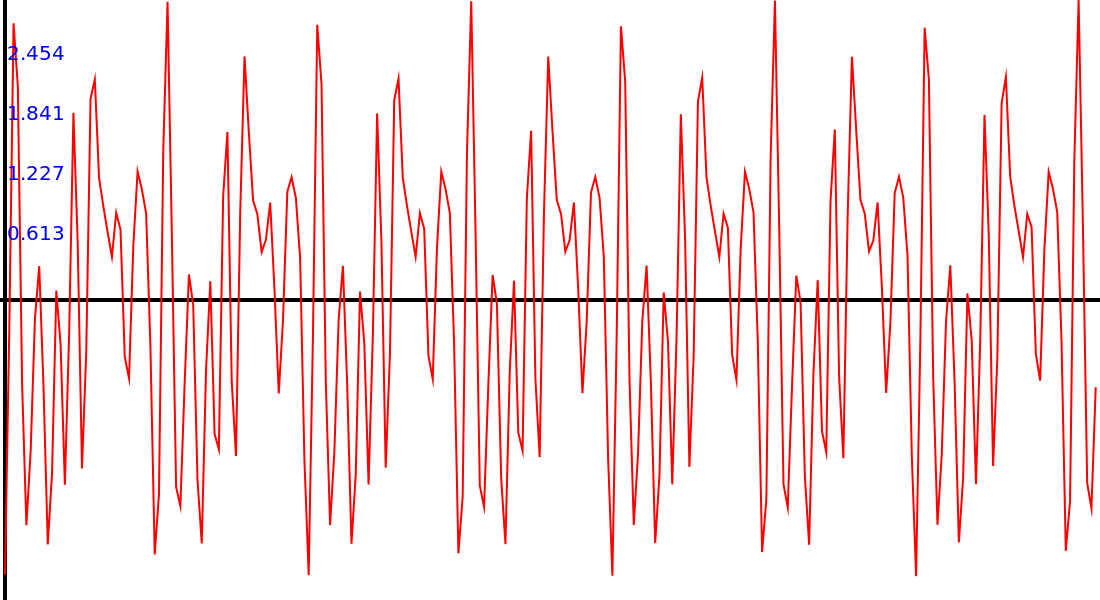
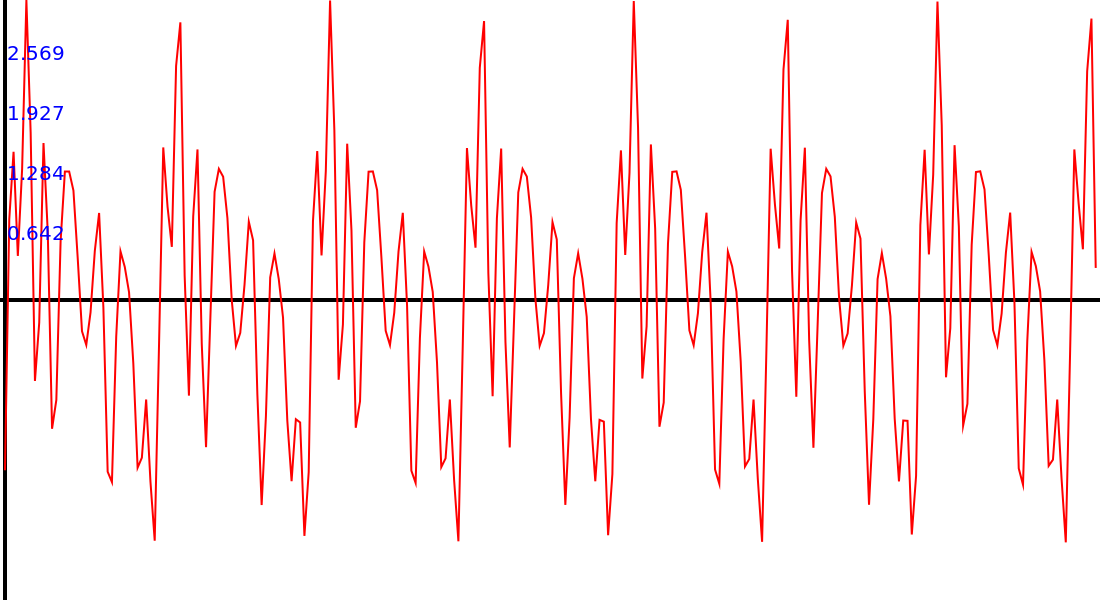
Lab3 done

Changed region(s): [[0.0, 0.0, 1.0, 0.96]]

diff --git a/src/lab3.rs b/src/lab3.rs
@@ -1,0 +1,210 @@
+use rand::rngs::SmallRng;
+use rand::SeedableRng;
+use rand::Rng;
+
+extern crate rand;
+extern crate cairo;
+
+use cairo::{ImageSurface, Format, Context};
+use std::fs::File;
+use std::time::{Instant};
+
+
+// fn dispersion(v: &Vec<f64>, mean: f64) -> f64 {
+//     v.iter().map(|x| (x - mean)*(x - mean)).sum::<f64>() / ((v.len() - 1) as f64)
+// }
+
+fn mean(v: &Vec<f64>) -> f64 {
+    v.iter().sum::<f64>() / v.len() as f64
+}
+
+fn correlation(v1: &Vec<f64>, mean1: f64, v2: &Vec<f64>, mean2: f64) -> Vec<f64> {
+    (0..(v1.len() / 2))
+        .map(|tau| (v1.iter().zip(v2.iter().skip(tau)), v1.len() - tau))
+        .map(|(v, _size)| (v.map(|(a, b)| (a - mean1) * (b - mean2)), _size))
+        .map(|(v, size)| v.sum::<f64>() / (size - 1) as f64)
+        .collect::<Vec<f64>>()
+}
+
+fn discrete_fourier(signal: &Vec<f64>) -> Vec<f64> {
+    #[allow(non_snake_case)]
+    let N = signal.len();
+    // (0..N / 2).map(|p| {
+    (0..N).map(|p| {
+        let (re, im) = signal.iter().enumerate()
+            .map(|(k, x)| {
+                let arg = 2.0 * std::f64::consts::PI / N as f64 * p as f64 * k as f64;
+                (x * arg.cos(), x * arg.sin())
+            })
+            .fold((0.0, 0.0), |(re, im), (next_re, next_im)| (re + next_re, im + next_im));
+        (re*re + im*im).sqrt()
+    })
+    // .map(|f| f * 2.0 / N as f64)
+    .collect()
+}
+
+fn func(amplitude: f64, frequency: f64, phase: f64, time: f64) -> f64 {
+    amplitude * (frequency * time + phase).sin()
+}
+
+fn construct_signal(rng: &mut SmallRng,
+                    harmonics_count: usize,
+                    marginal_frequency: usize,
+                    timespan: usize) -> Vec<f64> {
+    const MAX_AMPLITUDE: f64 = 1.0;
+    const MAX_PHASE:     f64 = 2.0 * std::f64::consts::PI;
+    let frequency_step = marginal_frequency as f64 / harmonics_count as f64;
+    std::iter::repeat(frequency_step).take(harmonics_count).scan(0.0, |acc, curr| {*acc += curr; Some(*acc)})
+        .map(|frequency| {
+            let frequency = frequency as f64;
+            let amplitude = rng.gen::<f64>() * MAX_AMPLITUDE;
+            dbg!(amplitude);
+            let phase     = rng.gen::<f64>() * MAX_PHASE;
+            (frequency, amplitude, phase)
+        })
+        .map(|(f, a, p)| (0..timespan).map(|t| func(a, f, p, t as f64)).collect::<Vec<_>>())
+        .fold(vec![0.0; timespan], |sum, harmonic|
+            sum.into_iter()
+            .zip(harmonic.into_iter())
+            .map(|(a, b)| a + b)
+            .collect())
+}
+
+
+struct Renderer {
+    surface: ImageSurface,
+    context: Context,
+    width: i32,
+    height: i32,
+}
+
+impl Renderer {
+    fn with_width_height(width: i32, height: i32) -> Renderer {
+        let surface = ImageSurface::create(Format::ARgb32, width, height).unwrap();
+        let context = Context::new(&surface);
+        context.set_font_size(20.0);
+        Renderer {
+            surface,
+            context,
+            width,
+            height
+        }
+    }
+
+    fn export_to(&self, filename: &str) {
+        let mut file = File::create(filename).expect("Can't create file");
+        self.surface.write_to_png(&mut file).expect("Can't write to png");
+    }
+
+    fn clear(&self) {
+        self.context.set_source_rgb(1.0, 1.0, 1.0);
+        self.context.paint();
+    }
+
+    fn draw_func(&self, ys: &Vec<f64>, xs: Option<Vec<usize>>) {
+        let (w, h) = (self.width as f64, self.height as f64);
+        let (origin_x, origin_y) = (5.0, h / 2.0);
+        let max_y = ys.iter().fold(std::f64::NEG_INFINITY, |a, &b| a.max(b));
+        let scale_y = (h / 2.0) / max_y;
+        let step_x = (w - origin_x) / ys.len() as f64;
+
+        self.context.set_source_rgb(1.0, 0.0, 0.0);
+        self.context.set_line_width(2.0);
+        let mut x = origin_x;
+        self.context.move_to(x, origin_y - ys[0] * scale_y);
+        x += step_x;
+        for y in ys.iter().skip(1) {
+            let y = origin_y - y * scale_y; // y axis is inverted
+            self.context.line_to(x, y);
+            x += step_x;
+        }
+        self.context.stroke();
+
+        // Draw Y axis hints
+        self.context.set_source_rgb(0.0, 0.0, 1.0);
+        let y_amount = 4 as f64;
+        let step_y = h / 2.0 / (y_amount + 1.0);
+        let y_step = max_y / (y_amount + 1.0);
+        let mut y = y_step * y_amount;
+        for i in 1..=4 {
+            self.context.move_to(7.0, i as f64 * step_y);
+            let mut text = y.to_string();
+            text.truncate(5);
+            self.context.show_text(&text);
+            y -= y_step;
+        }
+        self.context.stroke();
+
+        // Maybe draw X axis hints (expects them to be uniformly distributed)
+        if let Some(xs) = xs {
+            const AMOUNT: usize = 5;
+            let chunk_size = xs.len() / AMOUNT;
+            self.context.set_source_rgb(0.0, 0.0, 1.0);
+            for (index, x) in xs.into_iter().enumerate().step_by(chunk_size) {
+                self.context.move_to(5.0 + index as f64 * step_x, origin_y - 5.0);
+                self.context.show_text(&x.to_string());
+            }
+            self.context.stroke();
+        }
+    }
+
+    fn draw_axis(&self) {
+        let (w, h) = (self.width as f64, self.height as f64);
+        let (origin_x, origin_y) = (5.0, h / 2.0);
+        self.context.set_source_rgb(0.0, 0.0, 0.0);
+        self.context.set_line_width(4.0);
+
+        // Y axis
+        self.context.move_to(origin_x, 0.0);
+        self.context.line_to(origin_x, h);
+        // X axis
+        self.context.move_to(0.0, origin_y);
+        self.context.line_to(w, origin_y);
+
+        self.context.stroke();
+    }
+}
+
+pub fn lab3_work() {
+    const HARMONICS_COUNT:    usize = 10; // n
+    const MARGINAL_FREQUENCY: usize = 2700;
+    const TIMESPAN:           usize = 256; // N
+    let seed = [6,4,3,8, 7,9,8,10, 14,18,12,12, 14,15,16,17];
+    let mut rng = SmallRng::from_seed(seed);
+
+    // const TIMESPAN_STEP: usize = 32;
+    // let mut times = Vec::new();
+    // let timepoints: Vec<_> = (TIMESPAN_STEP..).step_by(TIMESPAN_STEP)
+    //     .take_while(|&span| span <= TIMESPAN).collect();
+    // for timespan in timepoints.iter() {
+    //     let begin = Instant::now();
+    //     let _signal = construct_signal(&mut rng, HARMONICS_COUNT, MARGINAL_FREQUENCY, *timespan);
+    //     let elapsed = begin.elapsed().as_micros();
+    //     times.push(elapsed as f64);
+    //     println!("Elapsed for timespan={} : {}micros", timespan, elapsed);
+    // }
+
+    let signal_x = construct_signal(&mut rng, HARMONICS_COUNT, MARGINAL_FREQUENCY, TIMESPAN);
+    let discrete_fourier_x = discrete_fourier(&signal_x);
+
+    let renderer = Renderer::with_width_height(1100, 600);
+    {
+        renderer.clear();
+        renderer.draw_axis();
+        renderer.draw_func(&signal_x, None);
+        renderer.export_to("signal_x.png");
+    }
+    {
+        renderer.clear();
+        renderer.draw_axis();
+        renderer.draw_func(&discrete_fourier_x, None);
+        renderer.export_to("discrete_fourier.png");
+    }
+    // {
+    //     renderer.clear();
+    //     renderer.draw_axis();
+    //     renderer.draw_func(&times, Some(timepoints));
+    //     renderer.export_to("times.png");
+    // }
+}
+

diff --git a/src/main.rs b/src/main.rs
@@ -1,6 +1,6 @@
-mod lab2;
-use crate::lab2::lab2_work;
+mod lab3;
+use crate::lab3::lab3_work;
 
 fn main() {
-    lab2_work();
+    lab3_work();
 }
